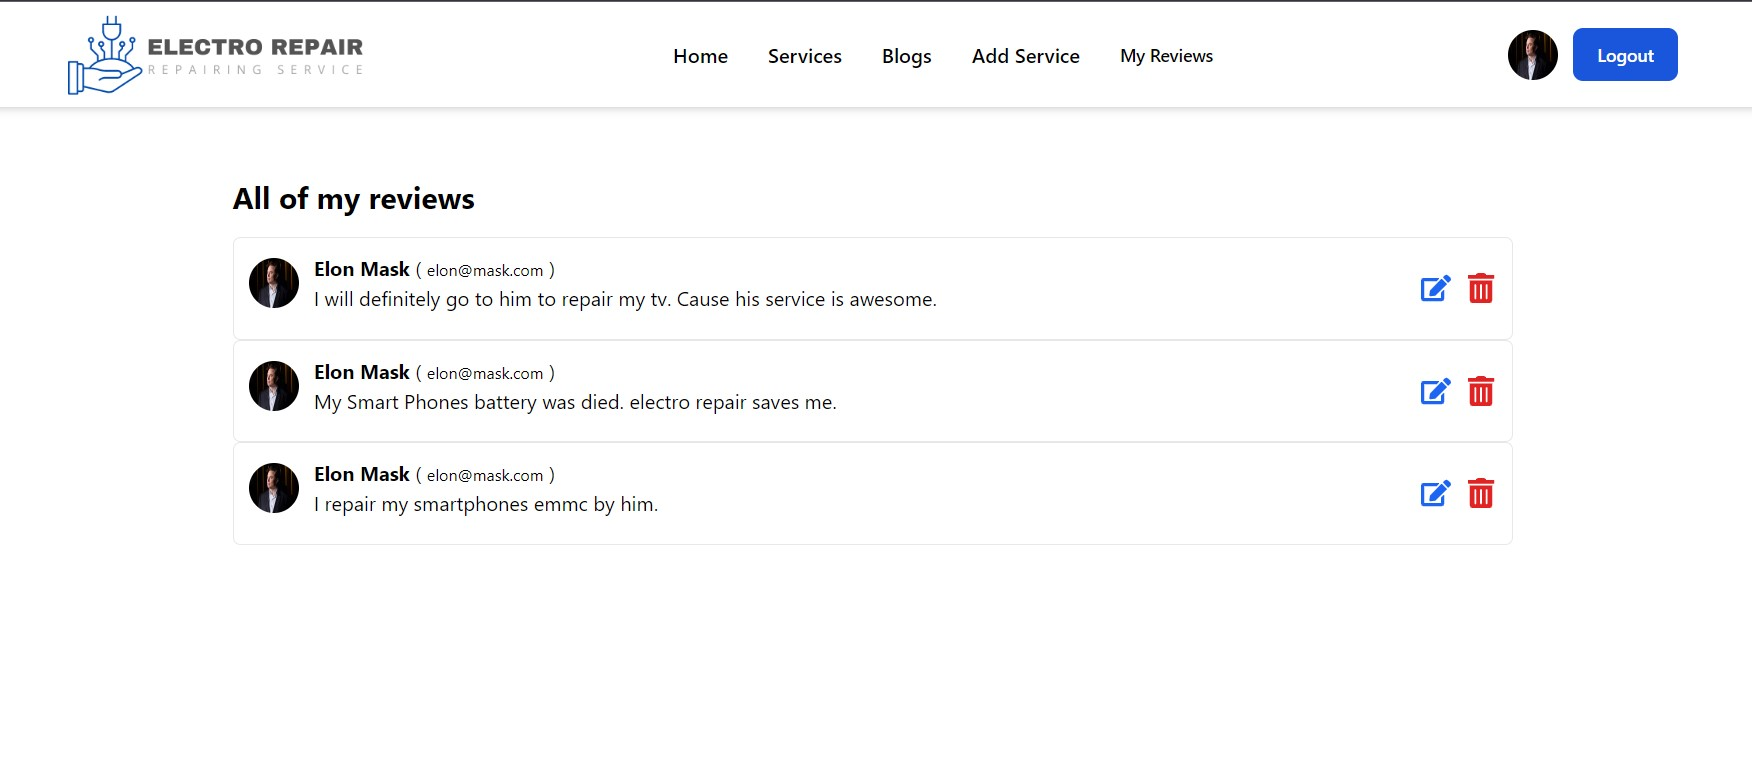
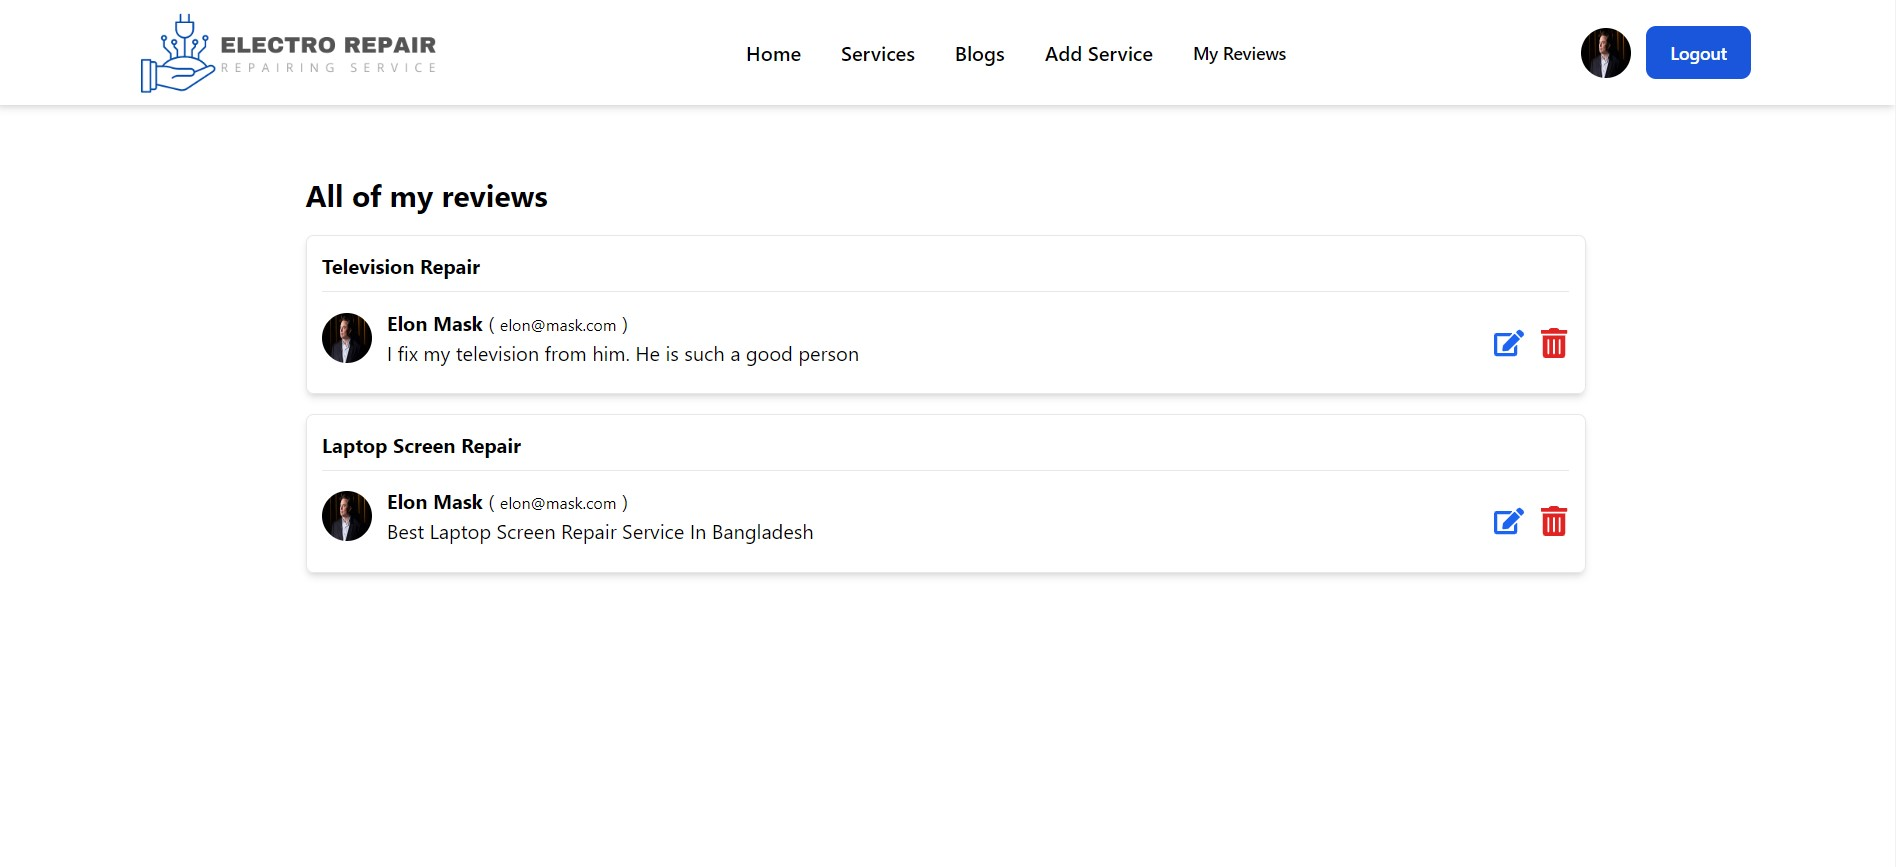
add service name my review page

diff --git a/src/Pages/MyReviews/MyReviews.jsx b/src/Pages/MyReviews/MyReviews.jsx
@@ -37,28 +37,31 @@ const MyReviews = () => {
       <div className="max-w-[1024px] mx-auto min-h-screen py-14">
          <h1 className="text-2xl font-bold mb-4">All of my reviews</h1>
          {reviews.map((review) => (
-            <div
-               key={review._id}
-               className="border rounded-md p-3 flex justify-between items-center"
-            >
-               <div className="flex items-center justify-start gap-3 mb-2">
-                  <Avatar img={review.userPhoto} rounded={true} />
-                  <div>
-                     <h4>
-                        <span className="font-bold">{review.userName}</span> ({" "}
-                        <small>{review.userEmail}</small> )
-                     </h4>
-                     <p>{review.comment}</p>
-                  </div>
+            <div key={review._id} className="border rounded-md p-3 mb-4 shadow-md">
+               <div className="mb-3">
+                  <h1 className="font-bold mb-2">{review.serviceName}</h1>
+                  <hr />
                </div>
-               <div className="flex items-center gap-3">
-                  <ReviewEditBtn
-                     comment={review.comment}
-                     _id={review._id}
-                     reviews={reviews}
-                     setReviews={setReviews}
-                  />
-                  <ReviewDeleteBtn _id={review._id} reviews={reviews} setReviews={setReviews} />
+               <div className="flex justify-between items-center">
+                  <div className="flex items-center justify-start gap-3 mb-2">
+                     <Avatar img={review.userPhoto} rounded={true} />
+                     <div>
+                        <h4>
+                           <span className="font-bold">{review.userName}</span> ({" "}
+                           <small>{review.userEmail}</small> )
+                        </h4>
+                        <p>{review.comment}</p>
+                     </div>
+                  </div>
+                  <div className="flex items-center gap-3">
+                     <ReviewEditBtn
+                        comment={review.comment}
+                        _id={review._id}
+                        reviews={reviews}
+                        setReviews={setReviews}
+                     />
+                     <ReviewDeleteBtn _id={review._id} reviews={reviews} setReviews={setReviews} />
+                  </div>
                </div>
             </div>
          ))}

diff --git a/src/Pages/ServiceDetails/WriteCommentForm/WriteCommentForm.jsx b/src/Pages/ServiceDetails/WriteCommentForm/WriteCommentForm.jsx
@@ -2,17 +2,18 @@ import { Button, Label, Textarea } from "flowbite-react";
 import React, { useContext } from "react";
 import { AuthContext } from "../../../contexts/AuthProvider/AuthProvider";
 
-const WriteCommentForm = ({ id, setReviews, reviews }) => {
+const WriteCommentForm = ({ title, id, setReviews, reviews }) => {
    const { user } = useContext(AuthContext);
    const handleSubmit = (event) => {
       event.preventDefault();
       const comment = event.target.comment.value;
       const serviceId = id;
+      const serviceName = title;
       const userName = user?.displayName;
       const userPhoto = user?.photoURL;
       const userEmail = user?.email;
       const date = new Date();
-      const review = { comment, serviceId, userEmail, userName, userPhoto, date };
+      const review = { comment, serviceId, serviceName, userEmail, userName, userPhoto, date };
 
       fetch("http://localhost:5000/reviews", {
          method: "POST",

diff --git a/src/Pages/ServiceDetails/ServiceDetails.jsx b/src/Pages/ServiceDetails/ServiceDetails.jsx
@@ -51,7 +51,7 @@ const ServiceDetails = () => {
                      </span>
                   )}
                </h1>
-               <WriteCommentForm id={_id} setReviews={setReviews} reviews={reviews} />
+               <WriteCommentForm id={_id} title={title} setReviews={setReviews} reviews={reviews} />
             </div>
 
             {/* reviews section */}
